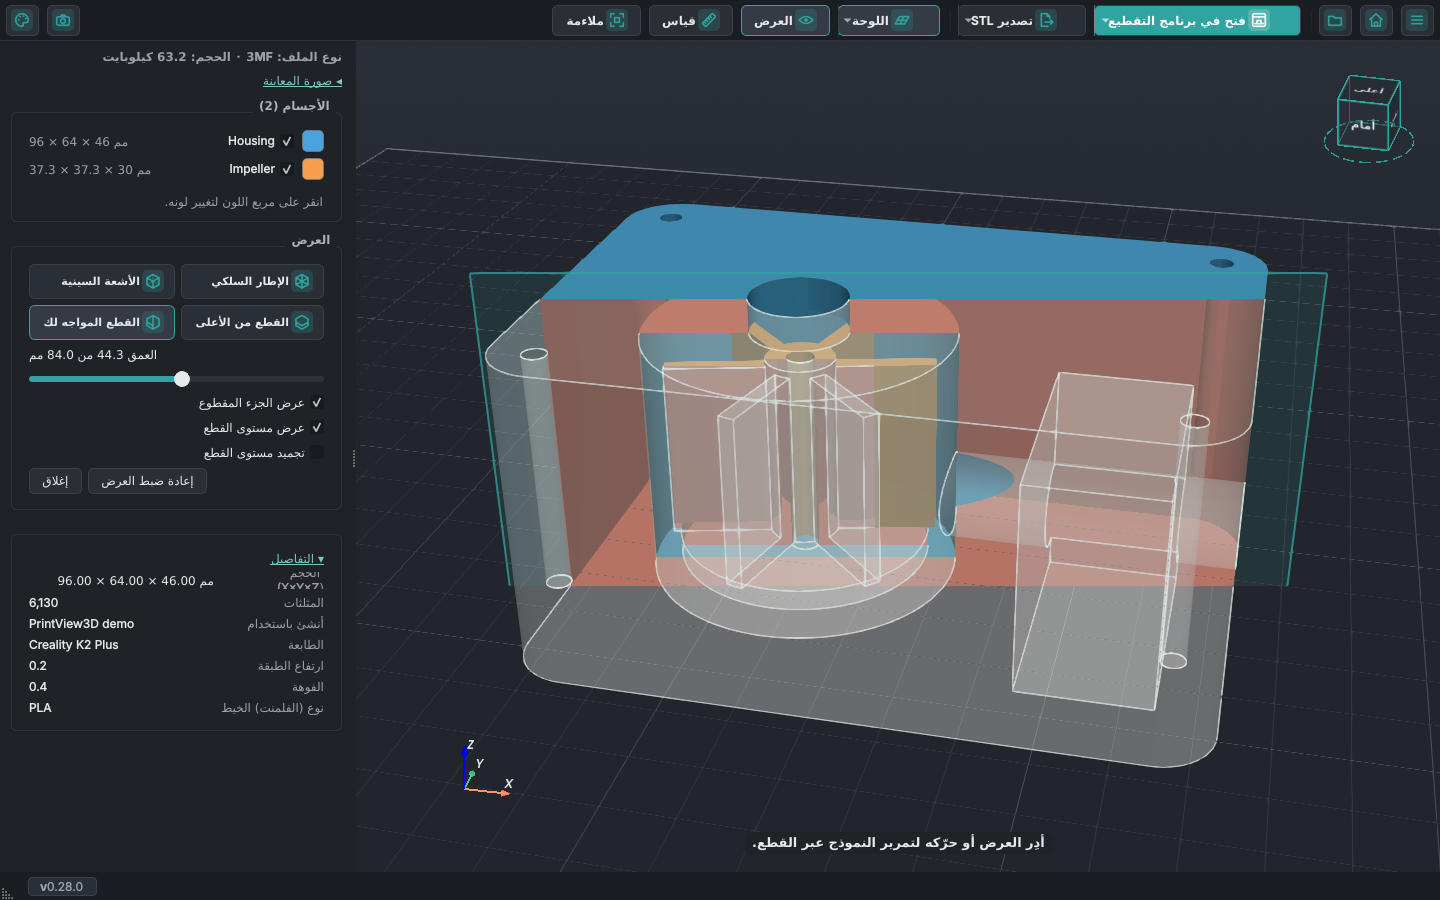
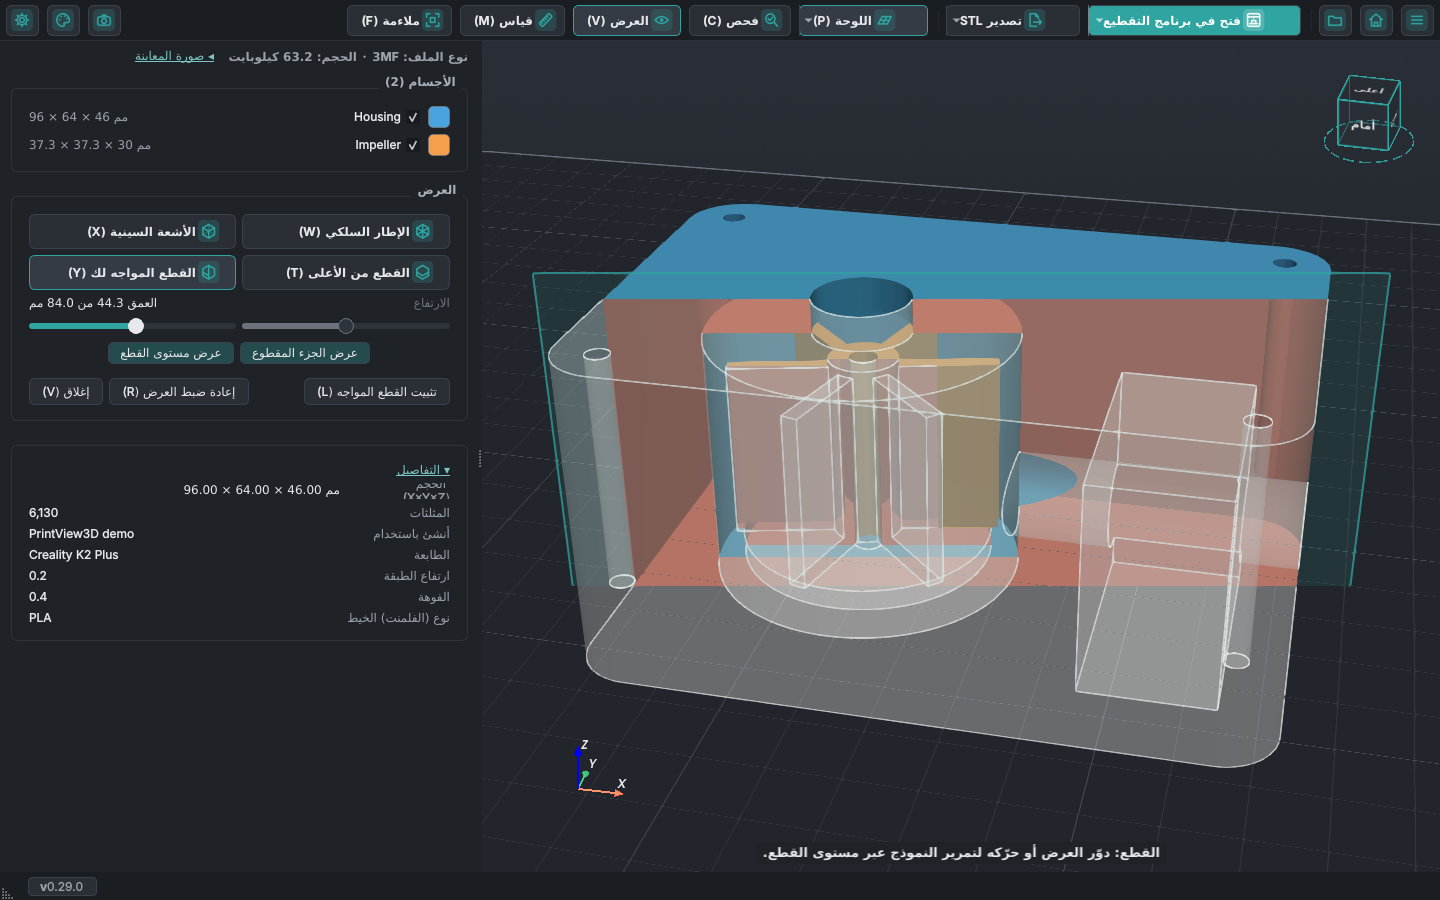
Website pictures for 0.29: Check model, measuring on a cut, grid numbers from 0
tools/make_clips.py: new stills check.png and measure-cut.png (per language); the View section
stays open so X-ray and the cuts stay on (closing it turns them off since #80); the clip-top
still uses the top slider; all stills redone with the 0.29 toolbar.

diff --git a/tools/make_clips.py b/tools/make_clips.py
@@ -125,9 +125,12 @@ class Capture:
 
     def off(self):
         w = self.w
-        for a in (w.act_wireframe, w.act_xray, w.act_clip, w.act_clip_face, w.act_measure):
+        for a in (w.act_wireframe, w.act_xray, w.act_clip, w.act_clip_face, w.act_lock_face,
+                  w.act_measure, w.act_check):
             if a.isChecked():
                 a.setChecked(False)
+        if w.measure.items:
+            w.measure.clear()
         for i in range(len(w.scene.model_actors)):           # the file's own colours again
             w.scene.set_part_color(i, None)
         self.show_colors()
@@ -224,7 +227,7 @@ def make_stills(c: Capture, lang: str):
     c.still(f"clip-facing{sfx}.png")                # the cut and its box in the side panel
     c.off()
     w.act_clip.setChecked(True)
-    w.face_slider.setValue(int(w.CLIP_STEPS * 0.45))
+    w.clip_slider.setValue(int(w.CLIP_STEPS * 0.45))
     w.act_xray.setChecked(True)
     c.still(f"xray-clip{sfx}.png")                  # options work together
     c.off()
@@ -235,11 +238,61 @@ def make_stills(c: Capture, lang: str):
     c.off()
     c.iso()
     w.act_xray.setChecked(True)                     # see-through, so the impeller shows too
-    w.act_view.setChecked(False)
     w.scene.set_part_color(0, "#ef791b")            # Ember orange and teal
     w.scene.set_part_color(1, "#2cc1b2")
     c.show_colors()
     c.still(f"colors{sfx}.png")
+    c.off()
+    make_stills_029(c, lang)
+
+
+def make_stills_029(c: Capture, lang: str):
+    """0.29: Check model, and measuring on the outline of a cut."""
+    import numpy as np
+    from printview3d.ui.measure import Item
+    w = c.w
+    sfx = "" if lang == "en" else "." + lang
+    cx, cy, top = 175.0, 175.0, 46.0              # see tools/make_inside_demo.py
+    # Check: overhangs (the roofs of the chamber, the channel and the pocket, seen with X-ray) and,
+    # with a 1.2 mm nozzle, the 1 mm wall in front of the hidden pocket as a thin wall.
+    c.off()
+    c.iso()
+    nozzle = w.check.nozzle
+    w.check_rows["thin"][0].setChecked(True)
+    w.check_nozzle.set_mm(1.2)
+    w.act_check.setChecked(True)
+    w.act_xray.setChecked(True)                   # the overhangs inside show through
+    c.settle()
+    w.check.wait_for_thin()
+    w._update_check_panel()
+    c.settle()
+    c.still(f"check{sfx}.png")
+    w.check_nozzle.set_mm(nozzle)
+    w.check_rows["thin"][0].setChecked(False)
+    c.off()
+    # Measure on the cut: Clip from the top through the chamber, the chamber's diameter on the
+    # cut's outline (Ø 44) and the wall between the chamber and the front (10 mm).
+    c.iso()
+    z = 25.0
+    lo, hi = w.scene.model_z_range()
+    w.act_clip.setChecked(True)
+    w.clip_slider.setValue(round((z - lo) / (hi - lo) * w.CLIP_STEPS))
+    z = w._clip_height(w.clip_slider.value())
+    w.choose_measure_mode("distance")
+    c.settle()
+    m = w.measure
+    chx = cx - 14.0
+    wall = Item("distance")
+    wall.points = [np.array(p) for p in ((chx, cy - 32.0, z), (chx, cy - 22.0, z))]
+    circ = Item("circle")
+    circ.points = [np.array((chx + 22.0 * np.cos(t), cy + 22.0 * np.sin(t), z))
+                   for t in np.radians((150.0, 30.0, 270.0 + 50.0))]
+    m.items = [wall, circ]
+    m.current = circ
+    m.hover_point = None
+    m._update()
+    c.settle()
+    c.still(f"measure-cut{sfx}.png")
     c.off()
 
 
@@ -253,7 +306,7 @@ def make_grid(c: Capture):
     cam = w.plotter.camera
     cam.Azimuth(-20)
     cam.Elevation(14)
-    cam.Zoom(0.36)
+    cam.Zoom(0.29)
     c.render()
     c.frame().save(os.path.join(c.out, "grid-numbers.png"), optimize=True)
     print("   grid-numbers.png")
